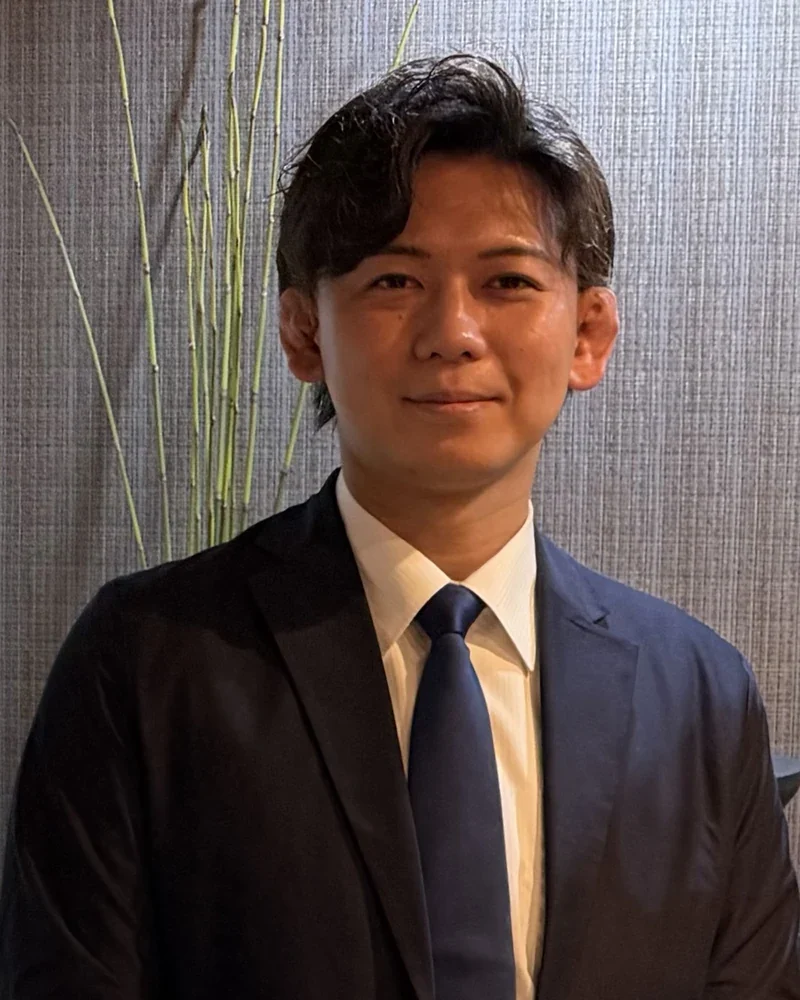
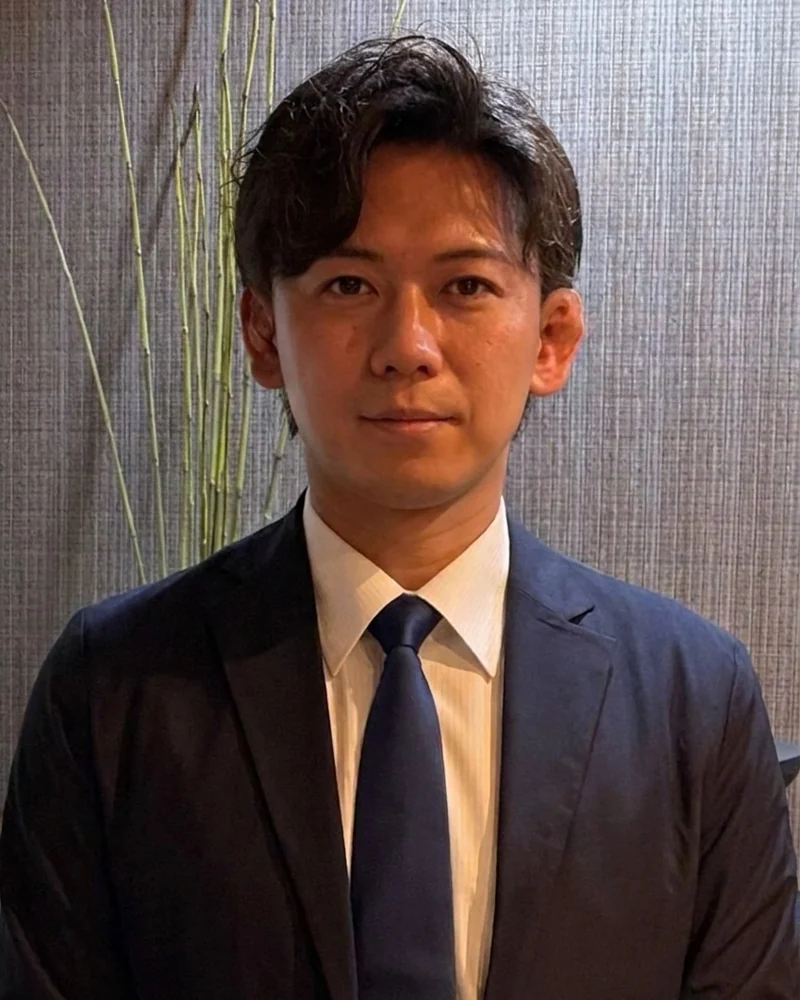
fix: 代表挨拶の写真を差し替え

diff --git a/index.html b/index.html
@@ -391,7 +391,7 @@ ul{margin:0;padding:0;list-style:none}
   content:"";position:absolute;width:30px;height:30px;pointer-events:none}
 .msg-portrait figure::before{top:10px;left:10px;border-top:1px solid rgba(185,155,95,.55);border-left:1px solid rgba(185,155,95,.55)}
 .msg-portrait figure::after{bottom:10px;right:10px;border-bottom:1px solid rgba(185,155,95,.55);border-right:1px solid rgba(185,155,95,.55)}
-.msg-portrait img{display:block;width:100%;height:auto;aspect-ratio:4/5;object-fit:cover;object-position:50% 22%;filter:saturate(.92) contrast(1.02)}
+.msg-portrait img{display:block;width:100%;height:auto;aspect-ratio:4/5;object-fit:cover;object-position:50% 30%;filter:saturate(.92) contrast(1.02)}
 .msg-portrait figcaption{
   margin-top:20px;font-family:var(--serif);font-size:14px;letter-spacing:.14em;color:#fff;text-align:center;
 }
